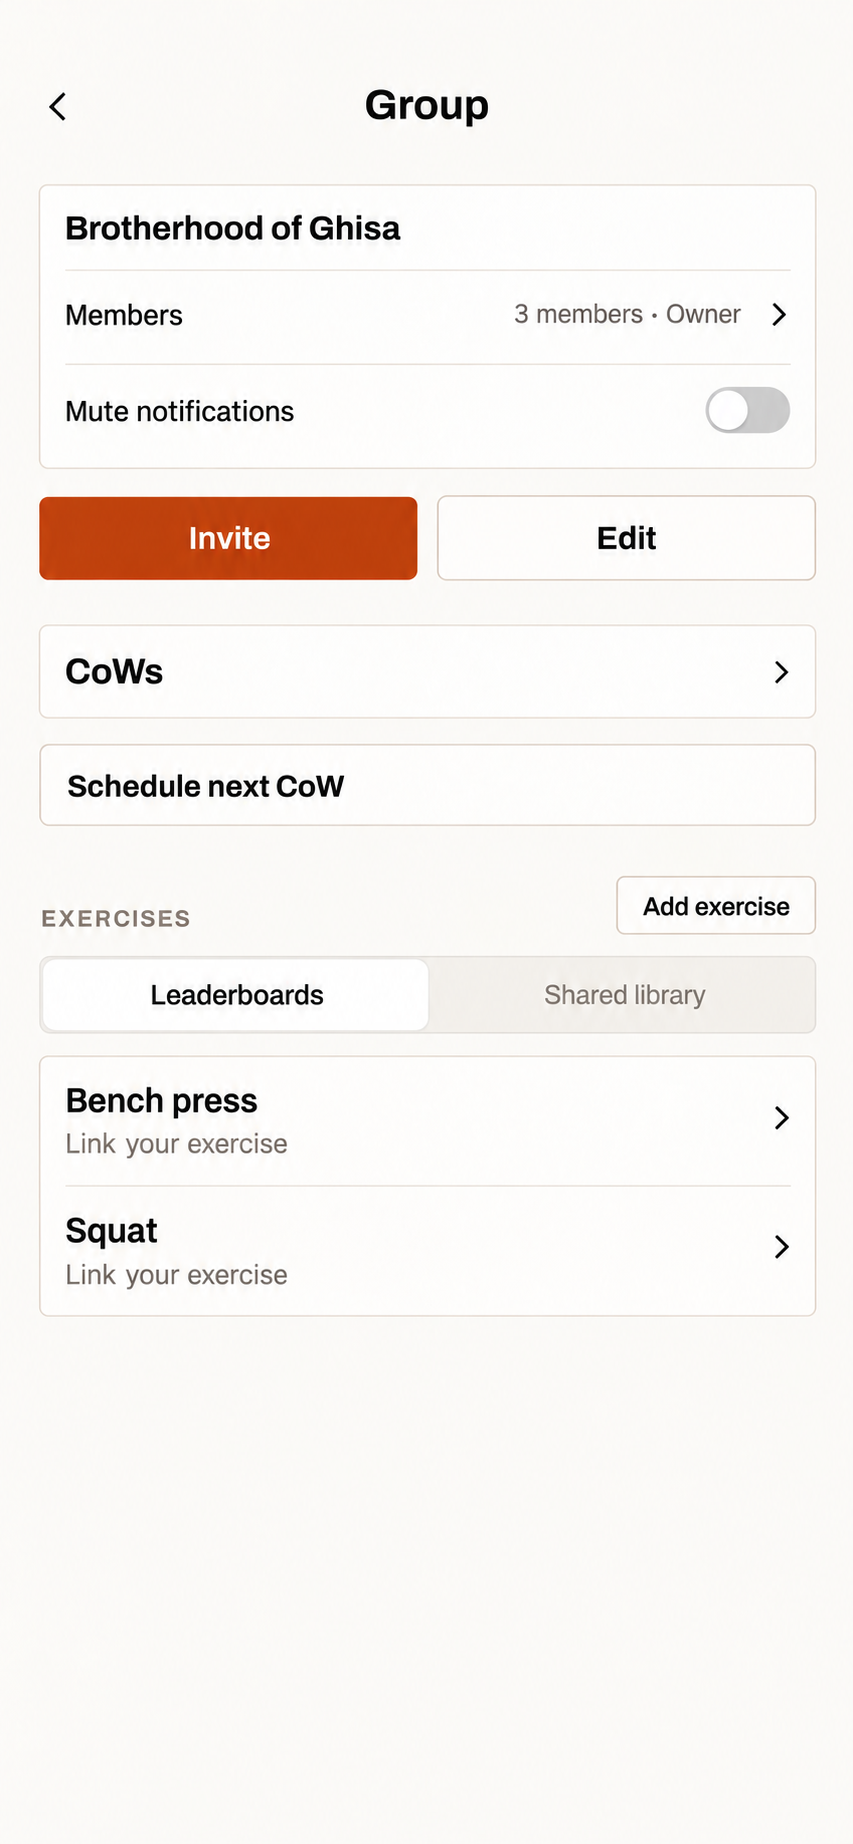
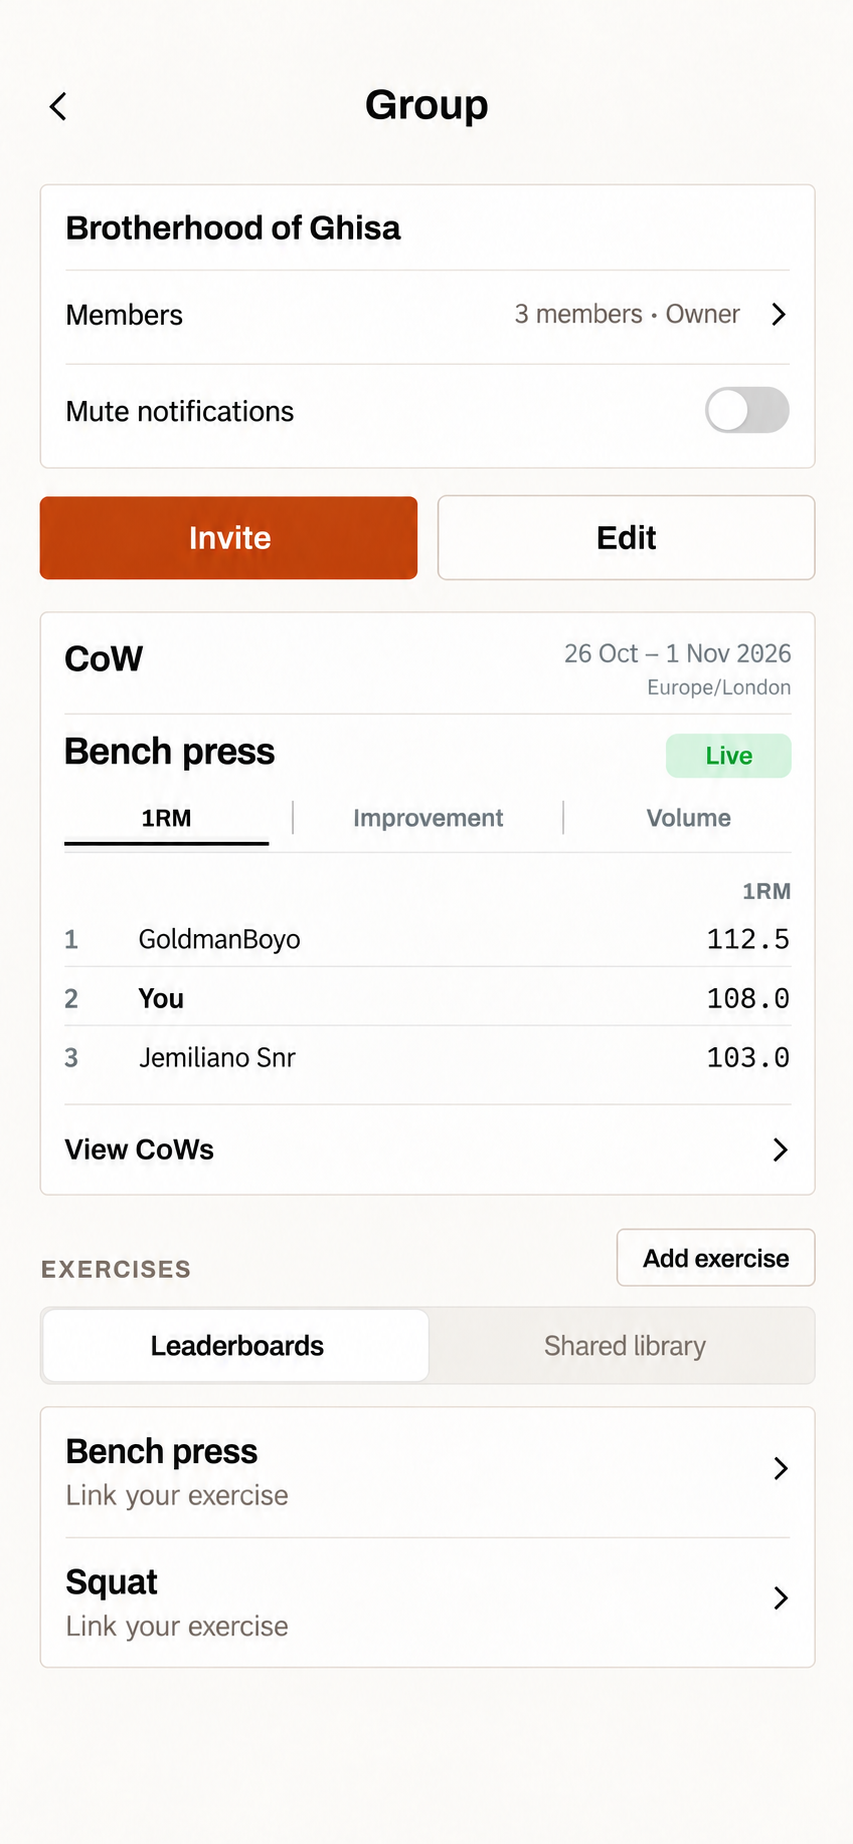
docs: revise CoW group preview and restore scheduling review
Show at least Today CoW information on the group page and open the secondary page for viewing and management. Keep the scheduling form pending user review.

diff --git a/docs/plans/M39-cow-ux.md b/docs/plans/M39-cow-ux.md
@@ -1,10 +1,11 @@
 # CoW — UX brief
 
-- Status: three attached mockups approved by the operator on 2026-10-29:
+- Status: two attached mockups approved by the operator on 2026-10-29:
   detailed chronological browser with horizontal banner, and Today top-three
-  card with in-card metric tabs, and the admin scheduling form. The
-  last-week-final fallback is also agreed. Companion group-entry, empty and
-  error targets below are proposed for review; they do not reopen these approvals.
+  card with in-card metric tabs. The last-week-final fallback is also agreed.
+  The scheduling form is pending review; the operator corrected the earlier
+  approval message. The revised group-page preview and empty/error targets
+  remain proposed for review. Only the browser and Today images are approved.
 - Owner: [M39](milestones/M39-group-challenge-of-the-week.md), implemented by
   [T04](tasks/M39-T04-Deliver_CotW_mobile_flows.md).
 - Authority: milestone D1–D9 for agreed product direction; remaining T01
@@ -35,7 +36,7 @@ approved as the member browser target.
 Generated with the built-in image-generation tool. Prompt: edit the selected
 chronological concept only, use the first concept solely for two-column header
 alignment, retain the same date range/zone, and preserve all other content and
-formatting. This image covers the member browser; the approved admin form
+formatting. This image covers the member browser; the draft admin form
 appears below.
 
 ## Intended outcome
@@ -106,11 +107,12 @@ Leaderboards. Keep the existing section selector unchanged. Show the entry
 even when the group has no CoWs; do not show it without a selected membership.
 It does not embed the browser or add another weekly summary card.
 
-Scheduling belongs on the individual group page (the existing group
-management screen), which opens a secondary CoW page. Owners/admins can create
-or edit there; every member can view and browse CoWs. The Today summary
-is a reading entry, with no scheduling/editing controls. Keep the same selected
-group/CoW across both entries, and return Back to the page that opened it.
+The individual group page contains a current-CoW preview with at least the
+information shown on Today, plus a View CoWs link into the secondary page.
+Members view/browse on that page; owners/admins also manage CoWs there and
+open the creation/editing form from it. The group preview and Today have no
+inline scheduling/editing controls. Keep the same selected group/CoW across
+entries, and return Back to the page that opened the browser or form.
 
 The secondary page uses the selected chronological browser for current/upcoming
 CoWs and past results. Concrete route names remain for T04; creation/editing
@@ -135,71 +137,88 @@ Groups
 CoWs                                       >
 
 Individual group page
-CoWs                                       >
-[Schedule next CoW]             (admin only)
+CoW                         26 Oct – 1 Nov 26
+Bench press                         Live
+[1RM] | Improvement | Volume
+1 GoldmanBoyo                         112.5
+2 You                                 108.0
+3 Jemiliano Snr                       103.0
+View CoWs                                  >
 
 Secondary CoW page
 This week: current CoW and ranking preview
 Next week: upcoming CoW
+[Schedule next CoW / Edit next CoW] (admin only)
 Past CoWs: final results
 ```
 
-The group-page admin action is Edit next CoW when the next slot is full,
-subject to T01's lifecycle; both actions open the secondary CoW page in the
-appropriate mode. The group-entry arrangement below is proposed for review.
+On the secondary CoWs page, the Next week section offers Schedule next CoW
+to admins when that slot is empty, or Edit next CoW for an editable next slot,
+subject to T01's lifecycle. Both open the separate form. The group-preview
+arrangement below is proposed for review.
 Browser/form date formatting follows the account preference; Today uses
 [[copy.calendar-dates]]. CoW dates refer to the group zone on both surfaces.
 
-## Group-page entry target — proposed
+## Group-page preview target — proposed
 
-On the individual group management page, place a compact CoWs block after
-the existing Invite/Edit actions and before Exercises. Its CoWs chevron row
-opens the chronological browser for every member. Owners/admins also see a
-separate outlined Schedule next CoW action below it, or Edit next CoW for an
-existing editable next slot. Ordinary members see neither admin action.
-Show Schedule only after the next-slot read confirms availability; an unknown
-slot uses Loading… or inline Retry, rather than guessing it is empty.
-Invite remains this page's sole primary accent; do not add ranking previews,
-week summaries or a second orange button here.
+The operator requires the individual group page to show at least the same
+current-CoW information as Today. After Invite/Edit and before Exercises,
+show exercise, week, status and the server's first three places, with the
+same in-card enabled 1RM / Improvement / Volume tabs and correct units.
+Include the group's time zone; dates follow this page's account preference.
+Do not substitute the viewer for third place. A separate View CoWs footer
+opens the secondary page for browsing and role-appropriate management,
+retaining the displayed CoW and metric. Metric tabs stay independent of this
+navigation target. Invite remains the group's sole primary accent.
 
-![Proposed individual group-page CoWs entry](assets/M39-cow-group-entry.png)
+Proposed reuse: the preview follows Today's current-first, exact-last-week-final
+selection. Unlike Today, the group page always retains its View CoWs entry
+for a current member; when no preview is available, show a short empty state
+beside that link. Loading/errors do not imply absence. Next-week scheduling
+and edit controls live on the secondary CoWs page, not beside this preview.
+
+![Proposed individual group-page current-CoW preview](assets/M39-cow-group-entry.png)
 
 Generated with the built-in image-generation tool. Prompt: extend the approved
-form/browser style into the current group management structure, preserving its
-member/notification rows, Invite/Edit and exercise list; insert only a CoWs
-browse row and outlined next-week scheduling action. Grounding is the current
-route/component source plus approved images, not a new running-app capture.
+browser/Today style into the current group management structure, preserving its
+member/notification rows, Invite/Edit and exercise list; replace the bare link
+and scheduling button with the approved Today preview's information and tabs,
+plus a View CoWs footer. Keep the group theme. Grounding is the current source
+and approved images, not a new running-app capture.
 
 Back from the browser/form restores the opening page and selected group.
 An Open group action in the browser opens this management page for that group;
 returning restores the browser rather than changing the selected group.
-Do not add scheduling actions to the member browser or Today.
+Ordinary members never see the secondary page's admin actions. Show Schedule
+only after the next-slot read confirms availability; unknown uses Loading…
+or inline Retry. Do not add scheduling actions to Today or the group preview.
 Use native chevron-only Back and house tokens at implementation; the generated
 empty/error images inherit a short back label from the earlier browser reference,
 which is not a new exception to the navigation contract.
 
-## Schedule next CoW — approved
+## Schedule next CoW — pending review
 
-From the individual group page, Schedule next CoW opens the creation form on
-the secondary CoW page. Next week's date range and the group's zone are
+From the group preview's View CoWs link, admins reach the secondary CoWs page;
+its Schedule next CoW action opens the creation form. Next week's date range
+and the group's zone are
 read-only context, not editable date fields. Use the existing group
 exercise picker; require at least one metric. The visible form is the review:
 group, fixed week/zone, exercise and metric choices, followed by one Publish
 CoW action. No duplicate Review card or extra confirmation screen.
 Publishing immediately makes the upcoming CoW visible to members.
 
-![Approved Schedule CoW form for next week](assets/M39-cow-schedule.png)
+![Draft Schedule CoW form for next week](assets/M39-cow-schedule.png)
 
 Generated with the built-in image-generation tool. Prompt: extend the approved
 CoW style into one short admin form with read-only group/next-week/zone context,
 the existing exercise picker, independent leaderboard checkboxes and one
 Publish CoW action. The illustration shows a filled form, not a new rule that
-all three metrics must be selected. The operator approved this target on
-2026-10-29.
+all three metrics must be selected. This form is not approved; it remains a
+candidate for review after the group-page correction.
 
 Editing reuses the same form and entered selections, titled Edit CoW with
 Save changes as its primary action. Allowed fields/actions still follow
-T01's lifecycle; visual approval does not settle editing or cancellation policy.
+T01's lifecycle; the draft layout does not settle editing or cancellation policy.
 
 ```text
 < Back                         Schedule CoW
@@ -249,7 +268,7 @@ Today never labels an ended previous week's CoW as current; its agreed
 explicitly labelled last-week fallback follows the priority above. Stored outcomes
 live under Past CoWs in the detailed browser, newest first, with the same final
 detail opened from there. Both Groups and the Today card can reach the browser;
-admin scheduling remains on the individual group page. This is persistent in-app
+admins manage from that secondary page and open the scheduling form there. This is persistent in-app
 reporting, not a modal, a seen-once celebration or a push notification.
 Final results never imply a drill-down source workout is still available.
 Only provide permitted detail links that remain valid; hide unsafe historical
@@ -303,7 +322,7 @@ Publishing failures use inline notices near the unchanged form's action:
 | Other state/revision conflict | Refresh and review the changed context with input retained; do not misreport every conflict as an occupied slot or silently overwrite another admin's changes. |
 | Response uncertain | Couldn’t confirm publication. Offer Check status, which reads the authoritative slot before another create. While that read is failing or offline, keep create disabled; never assert Nothing was published. |
 | Week rolls over during entry | Week changed. Review the new dates. Refresh the fixed next-week dates and require deliberate review/publish; never silently move the submitted challenge. |
-| Confirmed success | Re-read and show the upcoming CoW immediately with neutral `CoW published.` feedback; Back returns to the opening group page. No second confirmation screen or automatic recurring schedule. |
+| Confirmed success | Re-read and show the confirmed upcoming CoW on the secondary browser with neutral `CoW published.` feedback. Back from the form returns to that browser; further Back returns to the originating page/group. No second confirmation screen or automatic recurring schedule. |
 
 ## Review and implementation checklist
 
@@ -314,7 +333,7 @@ last-updated marker; full rankings stay online under existing cache policy.
 Loss of group access hides cached content. Distinguish loading, no CoW,
 upcoming, live, finalizing, final-empty, final, unavailable and error+Retry.
 
-Review the three companion targets before implementing those flows. T01
+Review the draft scheduling form and three companion targets before implementation. T01
 still owns cutoff, edit/cancel, ties and revision policy. Verify approved
 layouts, state handling and fallback with
 long names, small/large phones, keyboard/scroll, VoiceOver, touch targets and

diff --git a/docs/plans/tasks/M39-T04-Deliver_CotW_mobile_flows.md b/docs/plans/tasks/M39-T04-Deliver_CotW_mobile_flows.md
@@ -35,15 +35,18 @@ At a glance summary placement is replaced by this distinction. The Today card
 shows the first three places and supports in-card switching between enabled
 1RM / Improvement / Volume leaderboards. Its header opens that group's displayed
 CoW with the selected metric; switching metrics never navigates. Scheduling starts on the
-individual group page and opens secondary creation/editing for owners/admins;
-members view/browse. No admin scheduling controls on Today.
+individual group page's current-CoW preview and View CoWs link. The secondary
+page provides browsing for members and management actions/form entry for
+owners/admins. The group preview contains at least Today's exercise, dates,
+status, top three and in-card metric tabs; no admin controls on Today or that preview.
 
 The member browser direction is selected: chronological This week, Next week
 and Past CoWs sections, with the current metric's top-three preview and Full
 standings. The operator requested a horizontal current-CoW banner, preserving
 existing formatting: exercise/status left, dates/zone right. The revised
-mockup is attached to the brief; no browser tabs or week stepper. The browser,
-Today top-three card and scheduling form are approved design targets.
+mockup is attached to the brief; no browser tabs or week stepper. The browser and
+Today top-three card are approved design targets. The scheduling form is
+pending review; its earlier approval message was corrected by the operator.
 The fallback is also agreed: a current CoW with no scores still takes priority;
 never substitute older, upcoming or non-final results as fallback. The header opens the
 displayed week's CoW and selected metric. No placeholder or reserved space
@@ -51,13 +54,14 @@ when the card is hidden.
 
 ## Open — resolve with the operator at session start
 
-- Use the three approved mockups in the [CoW UX brief](../M39-cow-ux.md).
-  Review its companion group-entry, empty and error targets and state tables;
+- Use the two approved mockups in the [CoW UX brief](../M39-cow-ux.md).
+  Review its scheduling form, revised group preview, empty/error targets and state tables;
   editing reuses that form with Edit CoW / Save changes, subject to T01.
   Apply `docs/specs/ui/ai-design-policy.md`; accepted targets are build
   inputs, never a replacement for the merged T01 contract.
 - Capture current group references before implementation. The brief proposes
-  one Groups CoWs link, a group-page browse row/outlined scheduling action,
+  one Groups CoWs link, a group-page current-CoW preview with View CoWs footer,
+  secondary-page admin management and form entry,
   state recovery and a Time zone field in group Edit. Finalize rule-dependent
   results/history and zone controls against T01; settled approvals stand.
   Scheduling always targets next week; no date picker or later-week
@@ -86,9 +90,13 @@ when the card is hidden.
    context, in-card metric switching shows the proper server top three and units
    without opening detail, and the header opens the same metric/group/CoW.
    Cover fewer/no qualifying rows, only enabled metrics and no substitution of
-   the viewer for a top-three place. Groups opens the detailed browser; group-page admin scheduling opens the
-   secondary form, members can browse without edit controls, and Back retains
-   the originating group/page. Prove empty sections stay distinct from failed
+   the viewer for a top-three place. The group-page preview shows at least
+   Today's current-CoW information with independent metric tabs and a View
+   CoWs link opening the displayed context. Secondary-page admin actions open
+   the form; members can browse without edit controls, and Back retains
+   the originating group/page. Verify the group preview's proposed reuse of
+   Today's selection and its persistent View CoWs entry when no preview is
+   available. Prove empty sections stay distinct from failed
    reads, Today does not infer absence from loading/errors, partial failures
    retain safe loaded sections, and an uncertain publish disables another
    create until Check status resolves the authoritative slot. Verify missing
@@ -113,9 +121,10 @@ when the card is hidden.
 | --- | --- | --- | --- |
 | Find challenge | Read the Today card or open the detailed browser from Groups | Current CoW first, otherwise exactly last week's stored final with explicit label/dates; detail matches displayed context | A successful read establishing no eligible current/fallback means no card or gap; loading/errors remain distinct; no older/upcoming/non-final fallback or admin controls |
 | Browse Today rankings | Tap an enabled metric inside the CoW card; read its first three places | Correct server ranks/units update in place; header opens the same metric in detail | Fewer/no results and unavailable metrics stay explicit; controls never trigger navigation |
-| Set challenge | Owner/admin opens Schedule next CoW from the individual group page; reviews fixed dates/zone on the secondary form, picks exercise/metrics and publishes | One upcoming CoW is visible to all members | Missing zone/eligible exercise, offline, validation or conflict preserves input; members cannot write |
+| Browse group preview | Read the individual group's CoW preview, switch metric, then follow View CoWs | At least Today's current information; the secondary browser retains group/CoW/metric and shows management only to admins | View CoWs remains available to current members when no preview exists; no inline scheduling; absence and errors stay distinct |
+| Set challenge | Owner/admin follows the group preview's View CoWs link, then Schedule next CoW; reviews fixed dates/zone on the form, picks exercise/metrics and publishes | One upcoming CoW is visible to all members | Missing zone/eligible exercise, offline, validation or conflict preserves input; members cannot write |
 | Read results | Choose a metric; inspect live standings or stored final rank | Values/units and finality match the server CoW | Missing baseline is unranked only for improvement; finalizing is never shown as final |
-| Manage challenge | Admin opens Edit next CoW from the group page and edits/cancels on the secondary page | Server lifecycle is reflected immediately; Back returns to the originating group | State/role changed: refresh with input retained; destructive actions confirm |
+| Manage challenge | Admin follows View CoWs, then Edit next CoW on the secondary page, and edits/cancels in the form | Server lifecycle is reflected immediately; Back returns through the browser to the originating group | State/role changed: refresh with input retained; destructive actions confirm |
 | Reopen/history | Open the secondary CoW page from the group page or summary, then browse stored results; or reopen offline | Authorized final outcome or permitted cached context; Back preserves origin | Full rankings/history stay online-only; no cache, lost membership and suppressed history expose no stale private value |
 
 Interaction/appearance: reuse group selector, cards, rank rows, sheets,

diff --git a/docs/plans/milestones/M39-group-challenge-of-the-week.md b/docs/plans/milestones/M39-group-challenge-of-the-week.md
@@ -95,16 +95,19 @@ Final with its dates; hide the card if neither is available. It is
 a top-three preview with in-card switching across enabled metric leaderboards;
 its header opens the detailed view. It has no upcoming/history rows or scheduling controls; the
 previous At a glance summary placement was a misunderstanding. Admins schedule
-from the individual group page into secondary creation/editing. The operator selected the
+via the individual group page's View CoWs link into the secondary browser's
+management actions and creation/editing form. The operator selected the
 chronological browser (This week / Next week / Past CoWs) with the exercise
 and status left, dates/zone right, preserving the mockup's formatting. Both
 attached browser and Today-card mockups and the last-week-final fallback are
 approved. A current CoW takes priority even without scores; no older-week,
-upcoming or non-final fallback. The operator also approved the scheduling form.
-The brief now proposes the group-page CoWs row/outlined admin action and
-empty/error targets, with offline, uncertain-publication and access-loss
-recovery. These companion targets await review; the three approved targets
-need no new selection pass. The plan prescribes no new main tab.
+upcoming or non-final fallback. The scheduling form is pending review: the
+operator corrected the earlier approval message. The individual group page
+must show at least Today's current-CoW information: exercise, dates/status,
+top three and in-card metric browsing, plus a link to view/manage CoWs on the
+successive page. The revised preview and empty/error targets await review;
+only the two member targets are approved. The brief includes offline,
+uncertain-publication and access-loss recovery. No new main tab.
 
 ### D7. Shared calendar and scheduling
 
